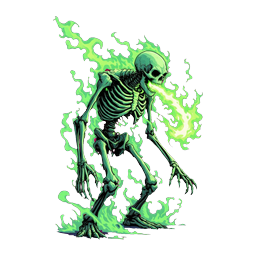
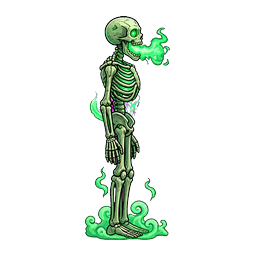
B3: Ethereo-Sheet, Moerser-Bot ohne Platzhalter, vier Untote Seitenansicht aus dem Portraet
Ethereo: Charactersheet aus Portraet+Seite neu (Front zeigte andere Figur). Moerser-Bot: Klassensymbol
und Luecke im Strahl entfernt (HD, Portraet, Sheet), abgeschnittener Strahl der Seitenansicht ergaenzt.
Untote 12/20/21/22: Entscheidung Portraet gilt; Seitenansicht neu (Runware gpt-image-2, Magenta-Key),
gleiche Hoehe und Grundlinie, Anker neu; entscheidungen.json b3_portraet_gilt. Animationsblaetter folgen.

Claude-Session: https://claude.ai/code/session_01AVWAnd7xvK3UmYKJxWLGqF

Changed region(s): [[0.1875, 0.0625, 0.8125, 0.9375], [0.7188, 0.2188, 0.75, 0.3125]]

diff --git a/tests/seitenansichten.test.js b/tests/seitenansichten.test.js
@@ -79,8 +79,8 @@ test('Manifest nennt jede der 81 Figuren genau einmal mit gültigen Feldern', ()
   for (const [k, e] of Object.entries(manifest.figures)) {
     assert.equal(e.file, k);
     assert.equal(e.facing, 'right');
-    assert.ok(['together', 'together-kontext', 'porträt', 'together-8bit-b1'].includes(e.source), `${k}: Quelle ${e.source}`);
-    const modell = { together: TEXT_MODELL, 'together-kontext': KONTEXT_MODELL, 'porträt': null, 'together-8bit-b1': 'openai/gpt-image-2' }[e.source];
+    assert.ok(['together', 'together-kontext', 'porträt', 'together-8bit-b1', 'runware-gpt-image-2'].includes(e.source), `${k}: Quelle ${e.source}`);
+    const modell = { together: TEXT_MODELL, 'together-kontext': KONTEXT_MODELL, 'porträt': null, 'together-8bit-b1': 'openai/gpt-image-2', 'runware-gpt-image-2': 'openai:gpt-image@2' }[e.source];
     assert.equal(e.model, modell, `${k}: Modell passt nicht zur Quelle`);
     assert.equal(typeof e.hasSide, 'boolean');
     if (e.hasSide) {
@@ -158,8 +158,16 @@ test('Charactersheets: Front und Seite nebeneinander, Zellen laut Manifest', () 
 test('Stufe 1 und 2 (Bild-zu-Bild mit Porträt als Referenz): Entscheidungen und Manifest stimmen überein', () => {
   assert.equal(entscheidungen.modell_kontext, KONTEXT_MODELL);
   const ersetzt = Object.keys(entscheidungen.kontext).sort();
-  // SPR-4: die neun pixel-Figuren wurden danach als echtes 8-Bit neu erzeugt (Quelle together-8bit-b1).
-  const imManifest = Object.entries(manifest.figures).filter(([, e]) => e.source === 'together-kontext' || e.source === 'together-8bit-b1').map(([k]) => k).sort();
+  // SPR-4: die neun pixel-Figuren wurden danach als echtes 8-Bit neu erzeugt (Quelle together-8bit-b1);
+  // B3 (2026-11-10): vier Untote aus dem Porträt neu (Quelle runware-gpt-image-2, „Porträt gilt“).
+  const b3 = Object.keys(entscheidungen.b3_portraet_gilt ?? {});
+  for (const k of b3) {
+    assert.equal(manifest.figures[k].source, 'runware-gpt-image-2', `${k}: B3 neu, Quelle passt nicht`);
+    assert.ok(entscheidungen.b3_portraet_gilt[k].length > 20, `${k}: B3-Begründung fehlt`);
+  }
+  const imManifest = Object.entries(manifest.figures)
+    .filter(([k, e]) => e.source === 'together-kontext' || e.source === 'together-8bit-b1' || (e.source === 'runware-gpt-image-2' && entscheidungen.kontext[k] !== undefined))
+    .map(([k]) => k).sort();
   assert.deepEqual(imManifest, ersetzt, 'Manifest und entscheidungen.json nennen nicht dieselben Figuren');
   assert.equal(ersetzt.length, 72, '20 Stufe-1-Figuren bleiben, 52 kamen in Stufe 2 dazu oder wurden neu erzeugt');
   for (const k of ersetzt) {
